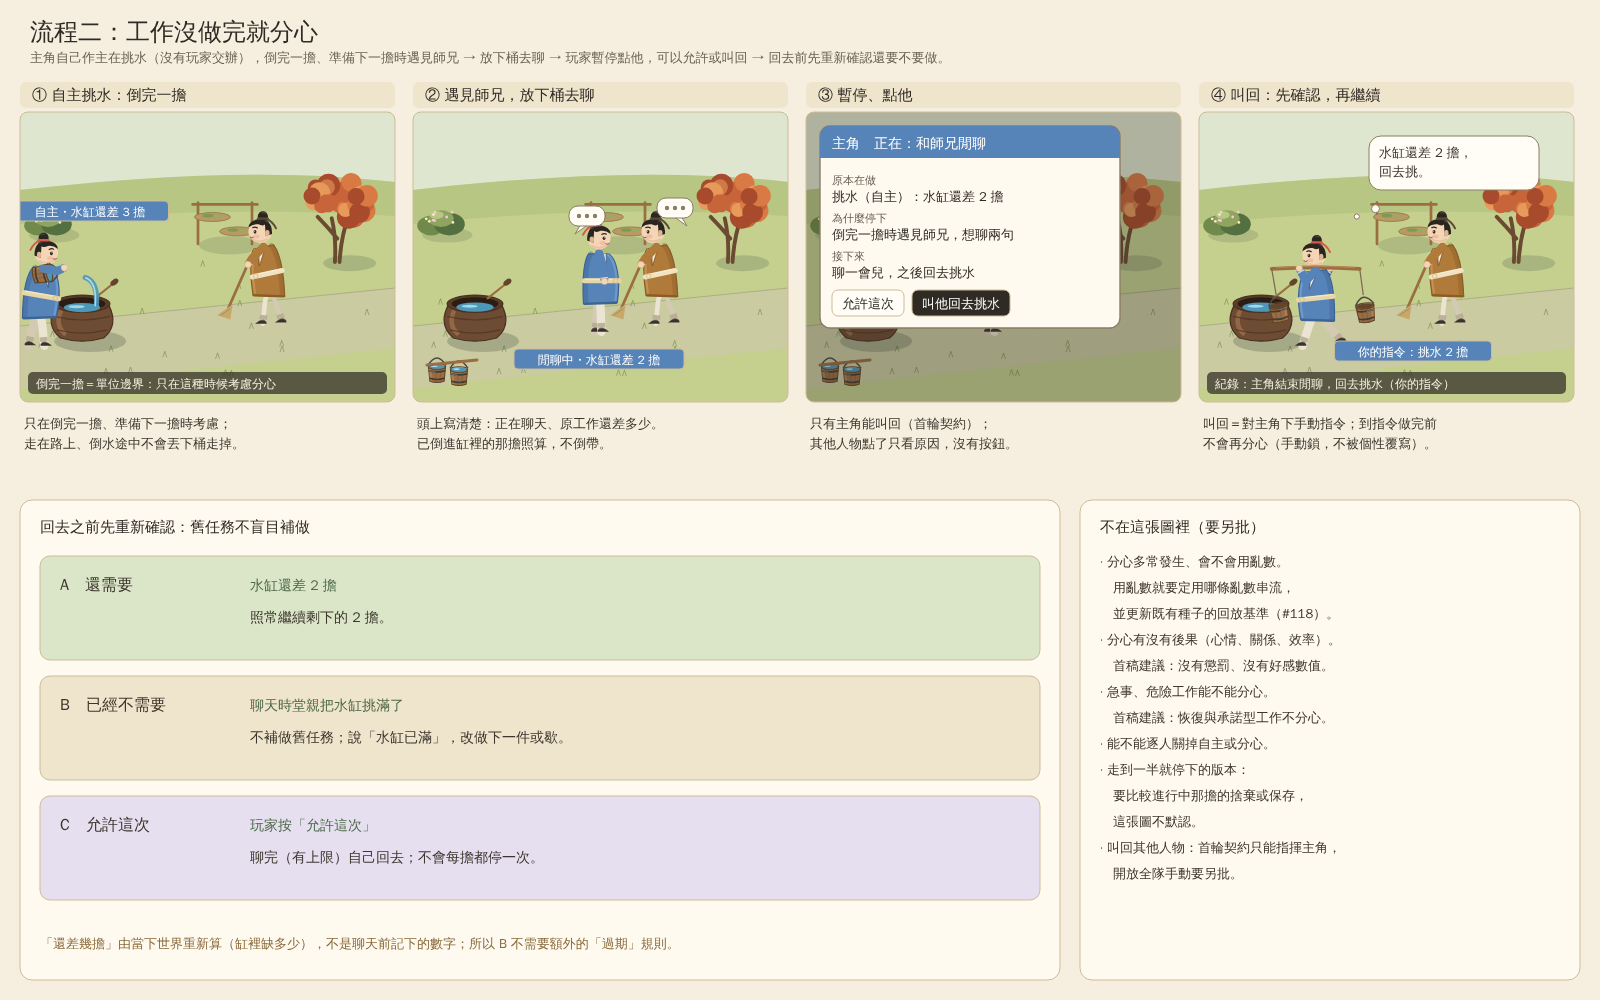
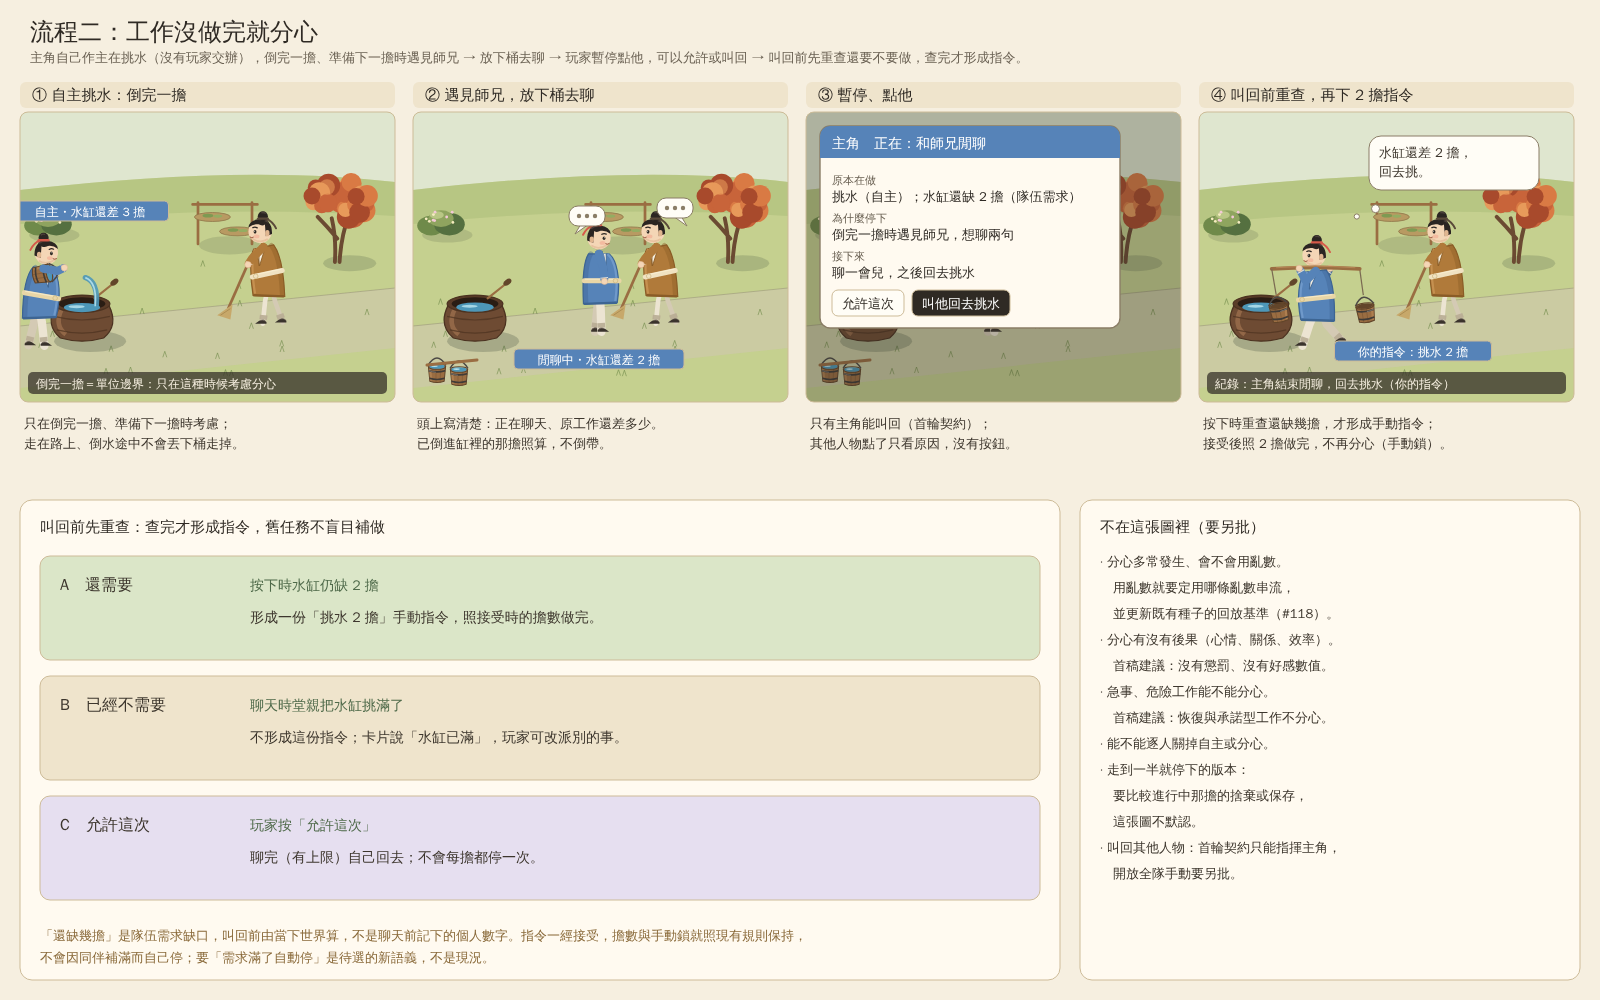
N1f: separate team-demand recheck from an accepted manual order (#188)
Per game PO review on #190: the A/B recheck happens before the recall
forms a manual order; once accepted, the order keeps its units and the
manual lock (RT00 §2.5), and stopping when demand is met is listed as a
candidate new semantic. The derive-not-store suggestion is scoped to the
unlocked autonomous gap only. Re-rendered distract.png and prefs.png.

Claude-Session: https://claude.ai/code/session_012LmwTNb7S2YSXiJSVRNLd3

diff --git a/sect-chronicle/experiments/water-carry/design/source/n1f-boards.js b/sect-chronicle/experiments/water-carry/design/source/n1f-boards.js
@@ -146,29 +146,29 @@ function boardDone() {
 /* ---------- 板 2：半途分心 ---------- */
 function boardDistract() {
   return `<div class="board tall" id="distract"><svg viewBox="0 0 1600 1000" xmlns="http://www.w3.org/2000/svg" font-family="var(--font)">
-    ${title('流程二：工作沒做完就分心', '主角自己作主在挑水（沒有玩家交辦），倒完一擔、準備下一擔時遇見師兄 → 放下桶去聊 → 玩家暫停點他，可以允許或叫回 → 回去前先重新確認還要不要做。')}
+    ${title('流程二：工作沒做完就分心', '主角自己作主在挑水（沒有玩家交辦），倒完一擔、準備下一擔時遇見師兄 → 放下桶去聊 → 玩家暫停點他，可以允許或叫回 → 叫回前先重查還要不要做，查完才形成指令。')}
     ${cell(CX[0], CY, '① 自主挑水：倒完一擔', `${hero('pour', { x: 18, y: 236 })}${senior({ x: 250, y: 214, dir: -1 })}${badge(70, 104, '自主・水缸還差 3 擔')}${log('倒完一擔＝單位邊界：只在這種時候考慮分心')}`, { bench: false, level: .3 })}
     ${cell(CX[1], CY, '② 遇見師兄，放下桶去聊', `${setDown(24, 244)}${hero(STAND, { x: 186, y: 222 })}${senior({ x: 250, y: 214, dir: -1 })}${chat(174, 100, 1)}${chat(262, 92, -1)}${badge(186, 252, '閒聊中・水缸還差 2 擔')}`, { bench: false, level: .38 })}
     ${cell(CX[2], CY, '③ 暫停、點他', `${setDown(24, 244)}${hero(STAND, { x: 186, y: 222 })}${senior({ x: 250, y: 214, dir: -1 })}`, {
       bench: false, level: .38, dim: true,
       over: infoCard(14, 14, 300, '主角　正在：和師兄閒聊', [
-        ['原本在做', '挑水（自主）：水缸還差 2 擔'],
+        ['原本在做', '挑水（自主）；水缸還缺 2 擔（隊伍需求）'],
         ['為什麼停下', '倒完一擔時遇見師兄，想聊兩句'],
         ['接下來', '聊一會兒，之後回去挑水']], [['允許這次', false], ['叫他回去挑水', true]])
     })}
-    ${cell(CX[3], CY, '④ 叫回：先確認，再繼續', `${hero('emptyA', { x: 120, y: 236, dir: -1 })}${senior({ x: 250, y: 214, dir: -1 })}${think(170, 24, 170, ['水缸還差 2 擔，', '回去挑。'], 140, 112)}${badge(214, 244, '你的指令：挑水 2 擔')}${log('紀錄：主角結束閒聊，回去挑水（你的指令）')}`, { bench: false, level: .38 })}
+    ${cell(CX[3], CY, '④ 叫回前重查，再下 2 擔指令', `${hero('emptyA', { x: 120, y: 236, dir: -1 })}${senior({ x: 250, y: 214, dir: -1 })}${think(170, 24, 170, ['水缸還差 2 擔，', '回去挑。'], 140, 112)}${badge(214, 244, '你的指令：挑水 2 擔')}${log('紀錄：主角結束閒聊，回去挑水（你的指令）')}`, { bench: false, level: .38 })}
     ${caption(0, ['只在倒完一擔、準備下一擔時考慮；', '走在路上、倒水途中不會丟下桶走掉。'])}
     ${caption(1, ['頭上寫清楚：正在聊天、原工作還差多少。', '已倒進缸裡的那擔照算，不倒帶。'])}
     ${caption(2, ['只有主角能叫回（首輪契約）；', '其他人物點了只看原因，沒有按鈕。'])}
-    ${caption(3, ['叫回＝對主角下手動指令；到指令做完前', '不會再分心（手動鎖，不被個性覆寫）。'])}
+    ${caption(3, ['按下時重查還缺幾擔，才形成手動指令；', '接受後照 2 擔做完，不再分心（手動鎖）。'])}
     ${panel(20, 500, 1040, 480)}
-    ${H(40, 532, '回去之前先重新確認：舊任務不盲目補做')}
-    ${[['A　還需要', '水缸還差 2 擔', '照常繼續剩下的 2 擔。', '#dbe6c8'],
-       ['B　已經不需要', '聊天時堂親把水缸挑滿了', '不補做舊任務；說「水缸已滿」，改做下一件或歇。', '#efe4cc'],
+    ${H(40, 532, '叫回前先重查：查完才形成指令，舊任務不盲目補做')}
+    ${[['A　還需要', '按下時水缸仍缺 2 擔', '形成一份「挑水 2 擔」手動指令，照接受時的擔數做完。', '#dbe6c8'],
+       ['B　已經不需要', '聊天時堂親把水缸挑滿了', '不形成這份指令；卡片說「水缸已滿」，玩家可改派別的事。', '#efe4cc'],
        ['C　允許這次', '玩家按「允許這次」', '聊完（有上限）自己回去；不會每擔都停一次。', '#e6dff0']]
       .map(([a, b, c, bg], i) => { const y = 556 + i * 120;
         return `<rect x="40" y="${y}" width="1000" height="104" rx="10" fill="${bg}" stroke="${C.line}"/>${T(60, y + 34, a, 16, 'font-weight="700"')}${T(250, y + 34, b, 14, 'fill="#4f6a4a"')}${T(250, y + 66, c, 14)}`; }).join('')}
-    ${T(40, 948, '「還差幾擔」由當下世界重新算（缸裡缺多少），不是聊天前記下的數字；所以 B 不需要額外的「過期」規則。', 13, 'fill="#8a6a3a"')}
+    ${T(40, 940, '「還缺幾擔」是隊伍需求缺口，叫回前由當下世界算，不是聊天前記下的個人數字。指令一經接受，擔數與手動鎖就照現有規則保持，', 13, 'fill="#8a6a3a"')}${T(40, 962, '不會因同伴補滿而自己停；要「需求滿了自動停」是待選的新語義，不是現況。', 13, 'fill="#8a6a3a"')}
     ${panel(1080, 500, 500, 480)}
     ${H(1100, 532, '不在這張圖裡（要另批）')}
     ${lines(1100, 566, [
@@ -196,7 +196,7 @@ function boardPrefs() {
   const rows = [
     ['問題', '建議（待評估）', '為什麼這樣選', '要擁有人選的'],
     ['叫回後會不會又立刻跑掉？', '沿用手動鎖：保護這次指令的剩餘擔數，做完才回到自主', '已有規則、玩家看得懂；不另加「幾秒內不分心」', '要不要允許人物違抗玩家'],
-    ['分心時原工作怎麼辦？', '已完成的擔照算；剩下的不另存，回來時由需求重新算', '自主工作本來一次只請求一單位，沒有「剩幾擔」可保存', '想要另存意圖時，舊意圖何時過期'],
+    ['分心時原工作怎麼辦？', '已完成的擔照算；自主時剩下的是隊伍缺口，叫回前重算', '未鎖自主工作本來一次只請求一單位；叫回後的指令照接受時擔數做完', '要不要讓指令在需求滿了時自動停'],
     ['什麼時候考慮分心？', '只在單位邊界（倒完一擔、採完一份）', '正好是現在重新判斷的時機；不用打斷走路或做到一半', '要不要加「走一半就停」'],
     ['什麼時候回去？', '一次有界的休閒；聊完或被叫回就重新看需求', '不無限聊、不每刻重抽；目標變了就不補做舊事', '一次多長、多久才能再分心'],
     ['誰可以被叫回？', '首輪只有主角；其他人物看原因', 'RT00 §2.5 只開主角手動', '開放全隊手動'],

diff --git a/sect-chronicle/experiments/water-carry/design/N1F.md b/sect-chronicle/experiments/water-carry/design/N1F.md
@@ -44,15 +44,21 @@
 1. **倒完一擔**：這是單位邊界，只在這種時候考慮分心。走在路上或倒水途中，不會丟下桶走掉。
 2. **遇見師兄，放下桶去聊**：頭上寫「閒聊中・水缸還差 2 擔」。已倒進缸裡的那擔照算，不倒帶。
 3. **玩家暫停、點他**：卡片寫原本在做什麼、為什麼停下，有「允許這次」「叫他回去挑水」兩個按鈕。只有主角有按鈕，其他人物點了只看得到原因。
-4. **叫回之後**：等於對主角下手動指令。在指令做完之前，他不會再分心（手動鎖不被個性覆寫）。
+4. **叫回**：玩家按下時先重查需求，再形成一份對主角的手動指令（例如「挑水 2 擔」）。指令接受後，他在做完之前不會再分心（手動鎖不被個性覆寫）。
 
-**回去前先重新確認**：
+**叫回前先重查，查完才形成指令**：
 
 | 情況 | 結果 |
 |---|---|
-| A 還需要 | 照常繼續剩下的 2 擔 |
-| B 已經不需要（聊天時堂親把水缸挑滿了） | 不補做舊任務；說「水缸已滿」，改做下一件或歇 |
-| C 玩家按「允許這次」 | 聊完（有上限）自己回去；不會每擔都停一次 |
+| A 還需要（按下時水缸仍缺 2 擔） | 形成「挑水 2 擔」手動指令，照接受時的擔數做完 |
+| B 已經不需要（聊天時堂親把水缸挑滿了） | 不形成這份指令；卡片說「水缸已滿」，玩家可改派別的事 |
+| C 玩家按「允許這次」 | 不形成指令；聊完（有上限）回到自主，下一次決策照當下需求挑事做，不會每擔都停一次 |
+
+**重查只發生在指令形成之前。** 指令一經接受，就照 [RT00 §2.5](../../../docs/RT00_CONTRACT.md#25-手動命令暫停或執行中皆可) 保持原擔數與手動鎖：
+
+- 結束方式只有現有的三種：做完、依既定規則失效、玩家取消。
+- 不會因為同伴把缸補滿就自己停。現行做法是單位數做滿才算完成，然後才解除手動鎖。
+- 要「需求滿了就自動停」，是待選的新語義，不是現況。
 
 ## 一個簡化建議：剩多少用推算，不另存
 
@@ -62,11 +68,18 @@
 - 建造與煉丹是承諾型，本來就不能分心。
 - 所以在未鎖定的自主工作者身上，現在沒有一份「剩幾擔」可以保存。
 
-**建議**：圖上的「水缸還差 2 擔」定義成**目標需求的剩餘量**，每次決策由 R2 從當下世界重新算。
+**建議**：自主工作時，圖上的「水缸還缺 2 擔」定義成**隊伍需求的缺口**，由 R2 從當下世界算，不另存成這個人「還想做幾擔」。
 
-- 聊天結束後，下一次決策自然重評，不用新增 schema。
-- 流程二的情況 B 也不需要額外的「過期」規則：缸滿了，需求就沒了。
+- 允許聊完後，下一次自主決策自然重評。
+- 叫回時在形成指令前重查一次（上節的 A／B）。
 - 代價：不能表達「他本來打算挑三擔」這種個人意圖。若之後真的需要，再另比較「另存意圖」的版本。
+
+這個建議的範圍：
+
+- **只限未鎖定的自主缺口**，不另存個人剩餘意圖。
+- **不適用於已接受的手動指令**：它照接受時的擔數做完，見上節。
+- **不代表新流程不需要狀態**：新的休閒、聊天、叫回流程可能仍需要新狀態與存讀差異，另定。
+- **水需求不在正式 R2**：挑水只是示意，要接哪種正式工作或目標也另定。
 
 ## 建議表（待評估）
 
@@ -75,7 +88,7 @@
 | 問題 | 建議 | 要擁有人選的 |
 |---|---|---|
 | 叫回後會不會又立刻跑掉？ | 沿用手動鎖，保護這次指令的剩餘擔數，做完才回到自主 | 要不要允許人物違抗玩家 |
-| 分心時原工作怎麼辦？ | 已完成的擔照算；剩下的不另存，回來時由需求重新算 | 若要另存意圖，舊意圖何時過期 |
+| 分心時原工作怎麼辦？ | 已完成的擔照算；自主時剩下的是隊伍缺口，叫回前重算；叫回後的指令照接受時的擔數做完 | 要不要讓指令在需求滿了時自動停；若另存意圖，何時過期 |
 | 什麼時候考慮分心？ | 只在單位邊界：倒完一擔、採完一份 | 要不要加「走一半就停」 |
 | 什麼時候回去？ | 一次有上限的休閒；聊完或被叫回就重新看需求 | 一次多長、多久才能再分心 |
 | 誰可以被叫回？ | 首輪只有主角，其他人物只看原因 | 是否開放全隊手動 |
@@ -90,8 +103,8 @@
 | 休閒活動 | 沒有；等待（`goals_done`）不移動、不改體力心境 | 新增一種活動，不是改寫等待 | 插在 R2 之後、R4 之前或別處；會不會回體力或心境 |
 | 雙人聊天 | 沒有 | 兩人同時占用 | 像工作位一樣預約；對象忙就落選並寫原因 |
 | 分心觸發 | 沒有 | 固定條件或亂數 | 用亂數就要決定用哪條亂數串流，並更新既有種子的回放基準（#118） |
-| 剩餘量 | R2 每次從世界推算需求 | 沿用推算（上節建議） | 若改成另存意圖，要定存檔欄位與過期 |
-| 叫回 | 主角手動指令＋手動鎖 | 沿用 | 不需要新規則；開放全隊另批 |
+| 剩餘量 | R2 每次從世界推算需求；手動指令照接受時的單位數 | 自主缺口沿用推算（上節建議） | 若改成另存意圖，要定存檔欄位與過期 |
+| 叫回 | 主角手動指令＋手動鎖；單位做滿才解鎖 | 叫回前重查需求，再形成指令 | 「重查後才形成指令」這一步要另定；指令中途因需求滿了自動停是新語義；開放全隊另批 |
 | 存檔與回放 | 不受影響 | 休閒若是活動，就進活動與事件紀錄 | 版本與舊檔相容另定 |
 
 ## 沒改的
@@ -120,4 +133,4 @@ NODE_PATH=$(npm root -g) node render-n1f.js
 
 1. **看得懂嗎**：只看圖，分得出他正在做什麼、為何離開、還剩什麼、怎麼叫回嗎？
 2. **偷懶的感覺**：流程二的分心，是你要的「偷懶」嗎？還是希望更明顯，例如走到一半就停？
-3. **剩多少要不要另存**：我建議第一片用推算、不另存。你同意嗎？
+3. **剩多少要不要另存**：我建議自主缺口用推算、不另存；叫回形成指令後照原擔數做完。你同意嗎？
